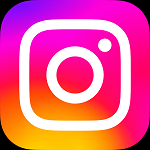
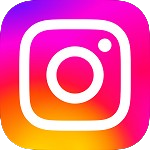
boorar y poner

diff --git a/Artistas.html b/Artistas.html
@@ -63,7 +63,7 @@
         <div class="footer-social">
           <a href="https://www.facebook.com/?locale=es_ES" target="_blank"><img src="Imagenes/facebook.png" alt="Facebook"></a>
           <a href="https://twitter.com/?lang=es" target="_blank"><img src="Imagenes/instagram.png" alt="Twitter"></a>
-          <a href="https://www.instagram.com" target="_blank"><img src="Imagenes/twitter.png" alt="Instagram"></a>
+          <a href="https://www.instagram.com" target="_blank"><img src="Imagenes/twitter.jpg" alt="Instagram"></a>
         </div>
       </div>
     </footer>
